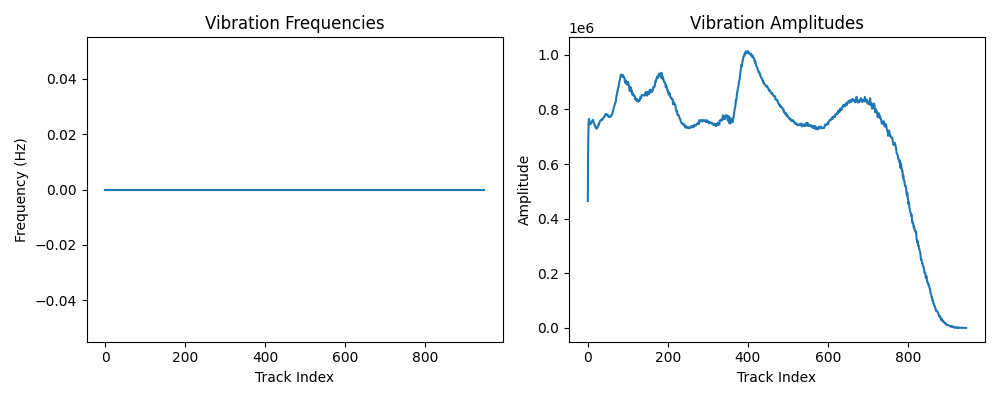
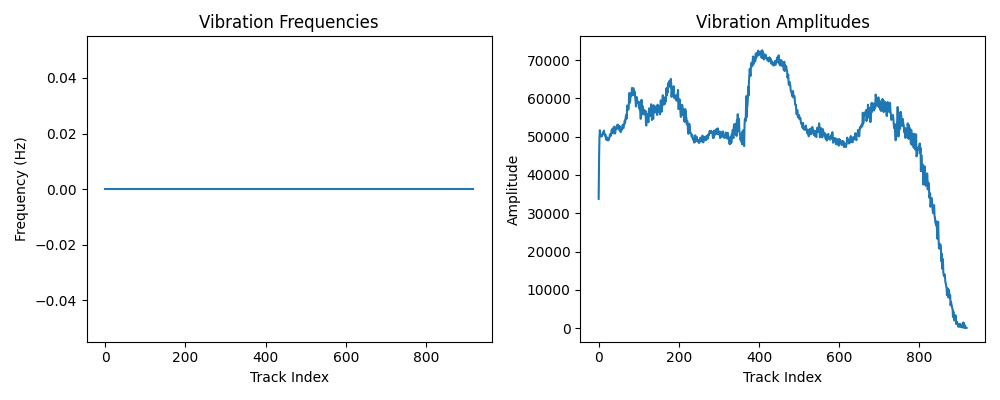
9.23

diff --git a/video_vibration_analysis_demo.py b/video_vibration_analysis_demo.py
@@ -14,23 +14,40 @@ frame_rate = int(cap.get(cv2.CAP_PROP_FPS))
 print(f"Total Frames: {total_frames}")
 print(f"Frame Rate: {frame_rate} fps")
 
+# 选择感兴趣区域（ROI）
+print("Select a ROI and then press SPACE or ENTER button!")
+print("Cancel the selection process by pressing c button!")
+
+while True:
+    ret, first_frame = cap.read()
+    if not ret:
+        break
+
+    cv2.imshow("Select ROI", first_frame)
+    roi = cv2.selectROI("Select ROI", first_frame, fromCenter=False)
+    cv2.destroyWindow("Select ROI")
+
+    if roi[2] > 0 and roi[3] > 0:  # 确保选择了有效的ROI
+        break
+
+# 获取感兴趣区域的坐标
+x, y, w, h = map(int, roi)
+
 # 初始化SIFT特征点检测器
 sift = cv2.SIFT_create()
 
 # 读取第一帧图像
+cap.set(cv2.CAP_PROP_POS_FRAMES, 0)  # 回到视频的第一帧
 ret, first_frame = cap.read()
 gray_first_frame = cv2.cvtColor(first_frame, cv2.COLOR_BGR2GRAY)
 
-# 在第一帧图像上绘制感兴趣区域的边界框
-cv2.namedWindow("Select ROI")
-roi = cv2.selectROI("Select ROI", first_frame, fromCenter=False)
-cv2.destroyWindow("Select ROI")
-
-# 获取感兴趣区域的坐标
-x, y, w, h = roi
-
 # 检测特征点和计算描述符
 kp1, des1 = sift.detectAndCompute(gray_first_frame[y:y+h, x:x+w], None)
+
+# 在第一帧上绘制特征点并保存图像
+first_frame_with_keypoints = cv2.drawKeypoints(first_frame[y:y+h, x:x+w], kp1, None, flags=cv2.DRAW_MATCHES_FLAGS_DRAW_RICH_KEYPOINTS)
+cv2.imwrite("first_frame_with_keypoints.png", first_frame_with_keypoints)
+
 
 # 创建一个空的轨迹列表
 tracks = [[] for _ in range(len(kp1))]
@@ -55,11 +72,43 @@ try:
         # 检测特征点和计算描述符，仅在感兴趣区域内进行
         kp2, des2 = sift.detectAndCompute(gray_frame[y:y+h, x:x+w], None)
 
-        # 使用FLANN匹配器匹配特征点
-        flann = cv2.FlannBasedMatcher()
-        matches = flann.knnMatch(des1, des2, k=2)
+        # # 使用FLANN匹配器匹配特征点
+        # flann = cv2.FlannBasedMatcher()
+        # matches = flann.knnMatch(des1, des2, k=1)
 
-        # ... 其他代码 ...
+        # 使用FLANN匹配器匹配特征点
+        bf = cv2.BFMatcher()
+        matches = bf.knnMatch(des1, des2, k=1)
+
+        # 选择良好的匹配
+        good_matches = []
+        for match in matches:
+            if len(match) > 0:
+                m = match[0]
+                if m.distance < 0.7:
+                    good_matches.append(m)
+
+        # 获取匹配点的坐标
+        src_pts = np.float32([kp1[m.queryIdx].pt for m in good_matches]).reshape(-1, 1, 2)
+        dst_pts = np.float32([kp2[m.trainIdx].pt for m in good_matches]).reshape(-1, 1, 2)
+
+        # 计算运动矢量
+        if len(src_pts) >= 4:
+            M, _ = cv2.findHomography(src_pts, dst_pts, cv2.RANSAC, 5.0)
+            if M is not None:
+                # 将运动矩阵M应用于特征点的坐标
+                new_pts = cv2.perspectiveTransform(np.array([kp1[i].pt for i in range(len(kp1))]).reshape(-1, 1, 2), M)
+                for i, pt in enumerate(new_pts):
+                    x, y = pt.ravel()
+                    if i < len(tracks):  # 检查索引是否在范围内
+                        tracks[i].append((x, y))
+                    else:
+                        # 如果轨迹列表长度不够，可以添加新的轨迹
+                        tracks.append([(x, y)])
+
+        # 更新上一帧的特征点和描述符
+        kp1 = kp2
+        des1 = des2
 
 except KeyboardInterrupt:
     pass
@@ -116,7 +165,7 @@ plt.title('Vibration Amplitudes')
 
 plt.tight_layout()
 
-# 保存绘制的图片到指定文件夹下
+# 检查目录是否存在，如果不存在则创建
 save_dir = './fig'
 if not os.path.exists(save_dir):
     os.makedirs(save_dir)
@@ -124,6 +173,7 @@ if not os.path.exists(save_dir):
 else:
     print(f"Directory {save_dir} already exists.")
 
+# 保存绘制的图片到指定文件夹下
 save_path = os.path.join(save_dir, 'vibration_analysis_plot.png')
 plt.savefig(save_path)
 plt.show()

diff --git a/README.md b/README.md
@@ -1,8 +1,12 @@
 # pbMoMa
 for phase-based motion magnification
 
+python vision: 3.10.12
+
 env:
-    opencv-python                 4.2.0.32
-    matplotlib                    2.2.5       
-    numpy                         1.16.6   
-    scipy                         1.2.3git 
+    matplotlib      3.8.0
+    numpy           1.24.2
+    opencv-python   4.7.0.72 
+    scipy           1.10.1
+
+!cp ./filterbank.py */envs/py3x/lib/python3.10/site-packages/perceptual/filterbank.py
